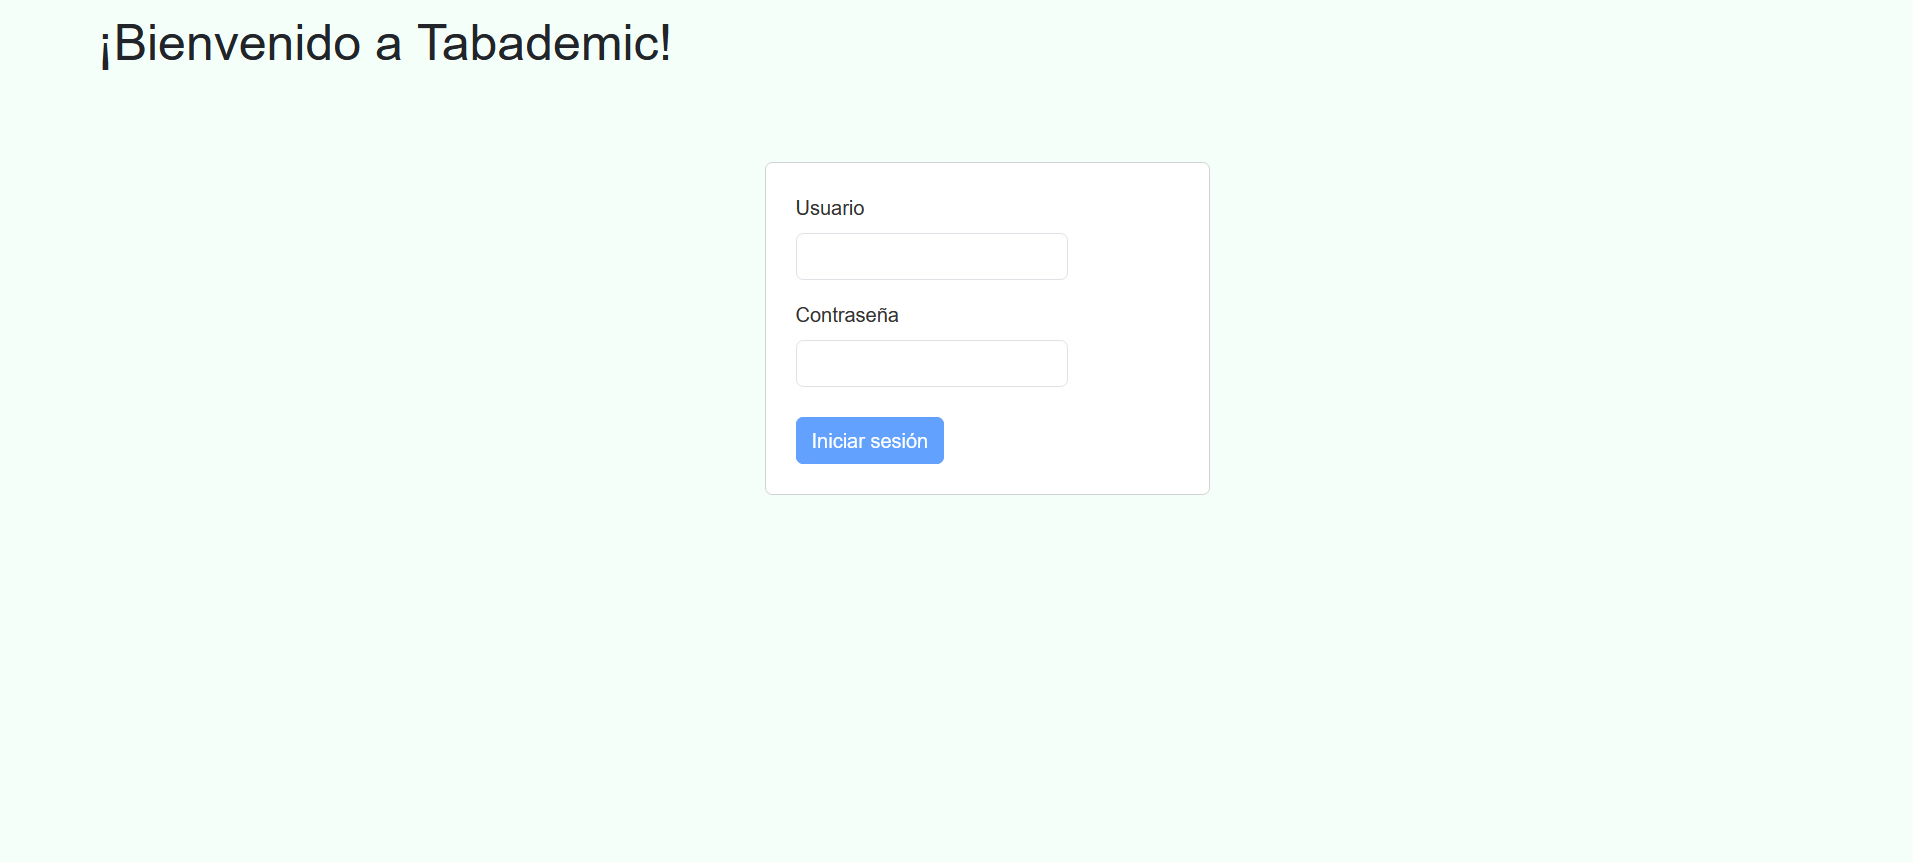
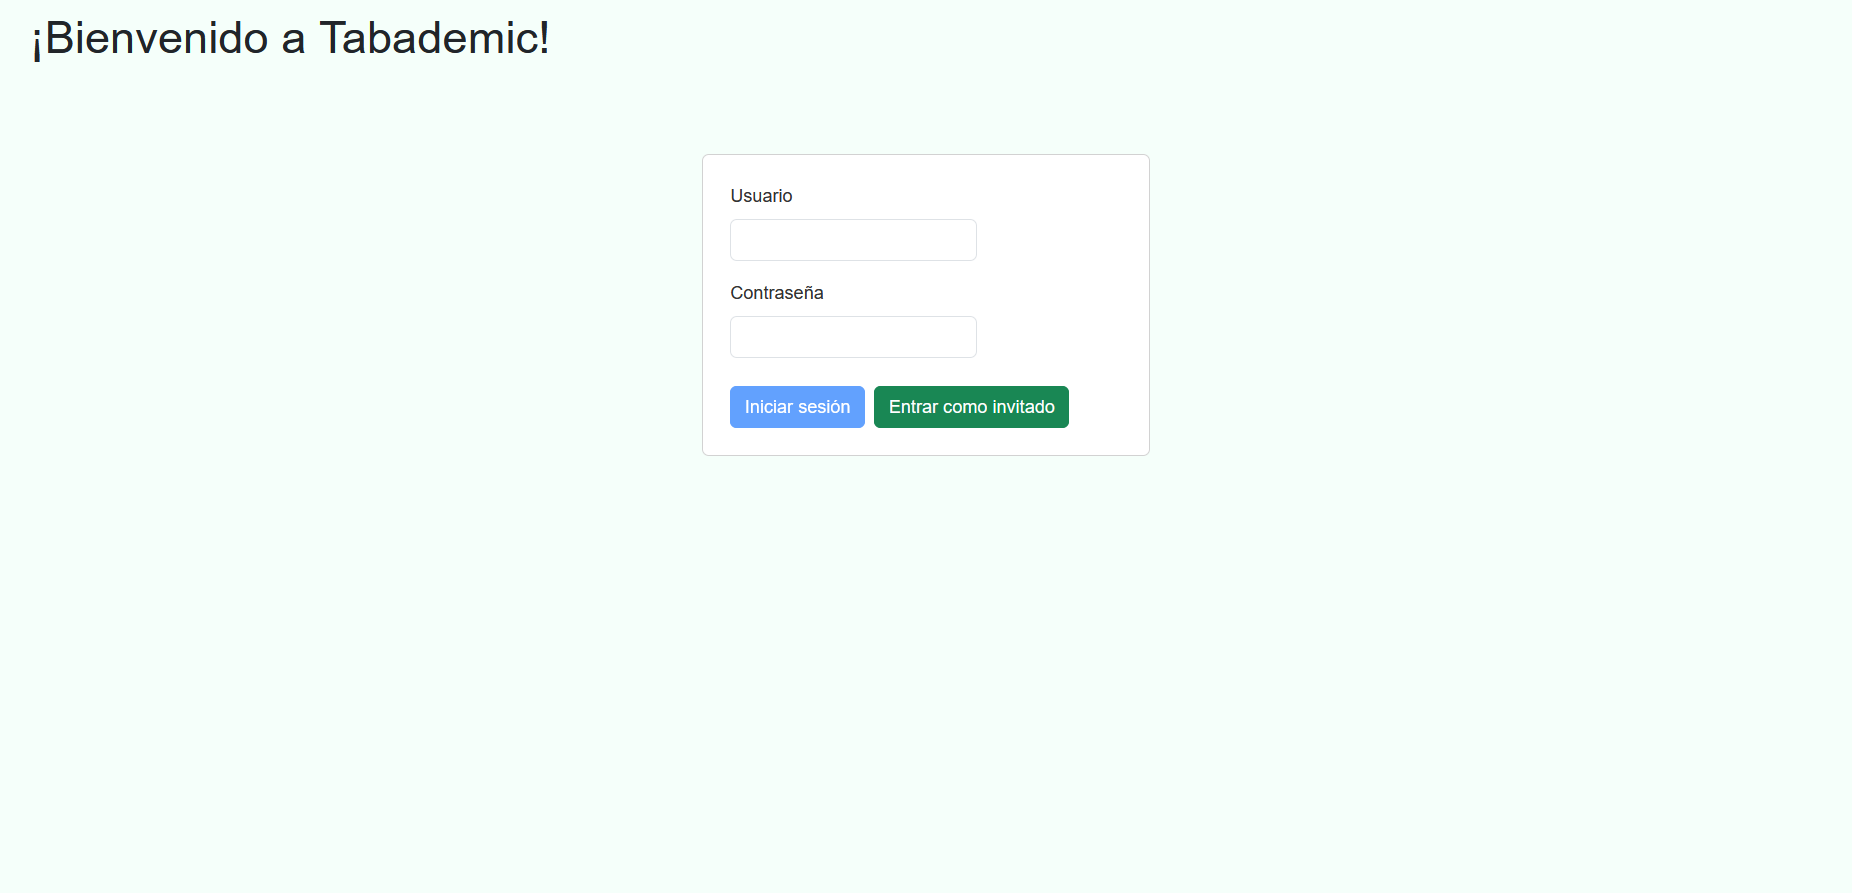
Update

diff --git a/docs/source/primeros_pasos.md b/docs/source/primeros_pasos.md
@@ -39,7 +39,7 @@ En ella podremos realizar las siguientes configuraciones:
 
 * ¿Es un torneo interno? Esto es útil ya que no se tendrán en cuenta incompatibilidades de club al generar los enfrentamientos.
 
-* ¿Es obligatorio poner mención a todos los oradores durante un debate, o por el contrario pueden dejarse en blanco a voluntad de los jueces?
+* ¿Habrá menciones para cada postura o por el contrario cada orador contará con una puntuación?
 
 <div class="warning"> 
 
@@ -107,13 +107,9 @@ Su configuración es sumamente sencilla ya que basta con especificar tanto el as
 
 Además, es posible encontrar los siguientes dos botones:
 
-* **Guardar cambios** -> Guarda la configuración.
 
-
-<br>
-
-* **Limpiar enfrentamientos guardados** -> Cada vez que se generen los enfrentamientos de una ronda, estos se guardarán de forma automática (para en caso de que tengamos que corregir algo, podamos reiniciarla y simplemente hacer los cambios oportunos). Al darle click y volver a generar los enfrentamientos de la ronda actual, Tabademic se encargará de los enfrentamientos (en función de cómo hayamos configurado el torneo, claro está).
+* **Limpiar enfrentamientos guardados:** Cada vez que se generen los enfrentamientos de una ronda, estos se guardarán de forma automática (para en caso de que tengamos que corregir algo, podamos reiniciarla y simplemente hacer los cambios oportunos). Al darle click y volver a generar los enfrentamientos de la ronda actual, Tabademic se encargará de los enfrentamientos (en función de cómo hayamos configurado el torneo, claro está).
 
 <br>
 
-* **Eliminar todos los datos del torneo** -> Muy útil en caso de que hubiéramos estado jugando un poco con la aplicación antes de insertar los datos reales.
+* **Eliminar todos los datos del torneo:** Muy útil en caso de que hubiéramos estado jugando un poco con la aplicación antes de insertar los datos reales.

diff --git a/docs/source/probar_tabademic.md b/docs/source/probar_tabademic.md
@@ -1,15 +1,3 @@
 # Torneo de prueba
 
-En caso de que estés interesado en probar Tabademic, simplemente accede a la aplicación e introduce las siguientes credenciales:
-
-**Usuario** : tabulador
-
-**Contraseña** : tabulador
-
-Estas pertenecen a un torneo de prueba, ¡por lo que podrás realizar las pruebas que desees sin ningún tipo de limitante!
-
-<div class="tip">
-
-💡<a href="_static/Datos%20de%20prueba.xlsx" download>Aquí</a> tienes un éxcel con datos de prueba
-
-</div>
+En caso de que estés interesado en probar Tabademic, simplemente accede a la aplicación y dale click a `Entrar como invitado`.

diff --git a/docs/source/lista_clubes.md b/docs/source/lista_clubes.md
@@ -96,7 +96,7 @@ Estos son los clubes con los que Tabademic cuenta actualmente (**si necesitas in
 			<td>Club de Debate de la Universidad de Alicante</td>
 		</tr>
 		<tr>
-			<td>CDUGR</td>
+			<td>UGR</td>
 			<td>Club de Debate Universitario de Granada</td>
 		</tr>
 		<tr>
